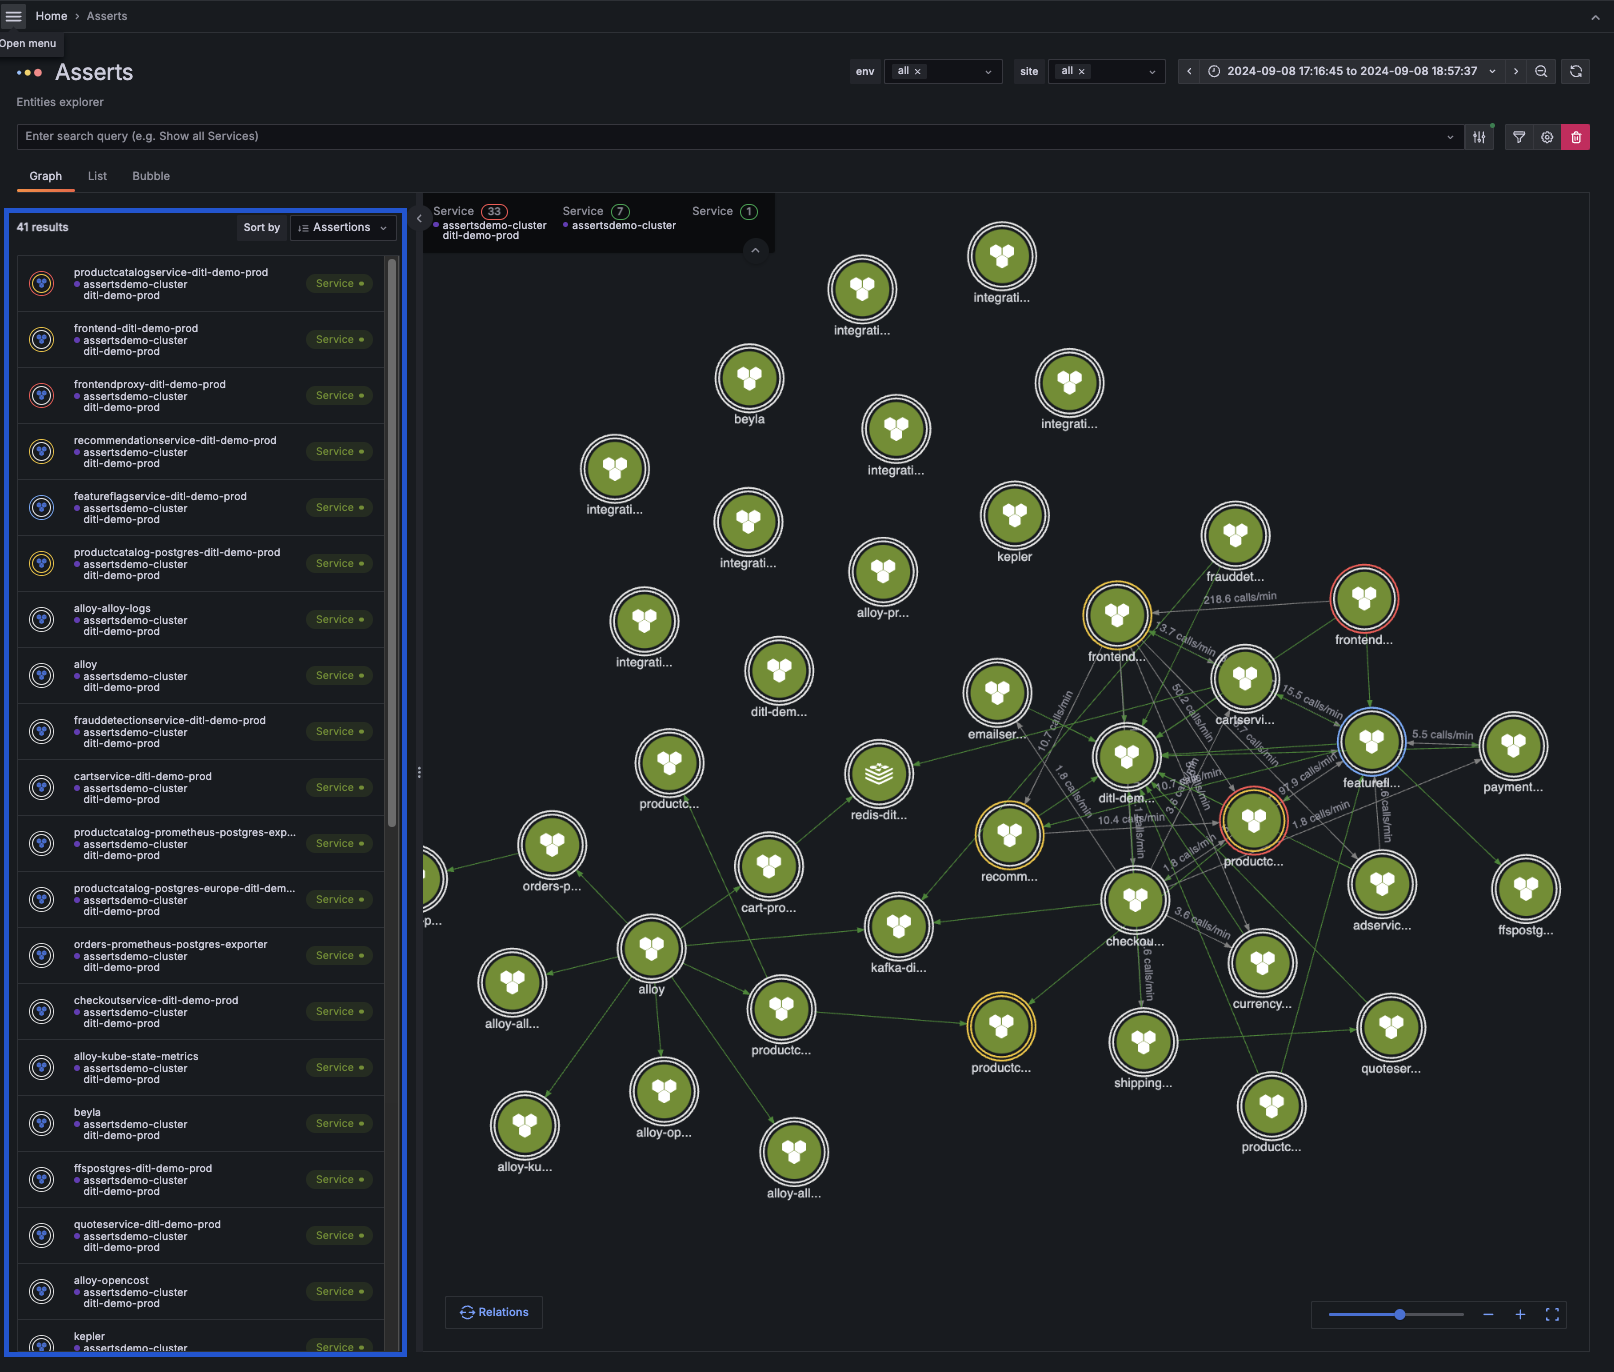
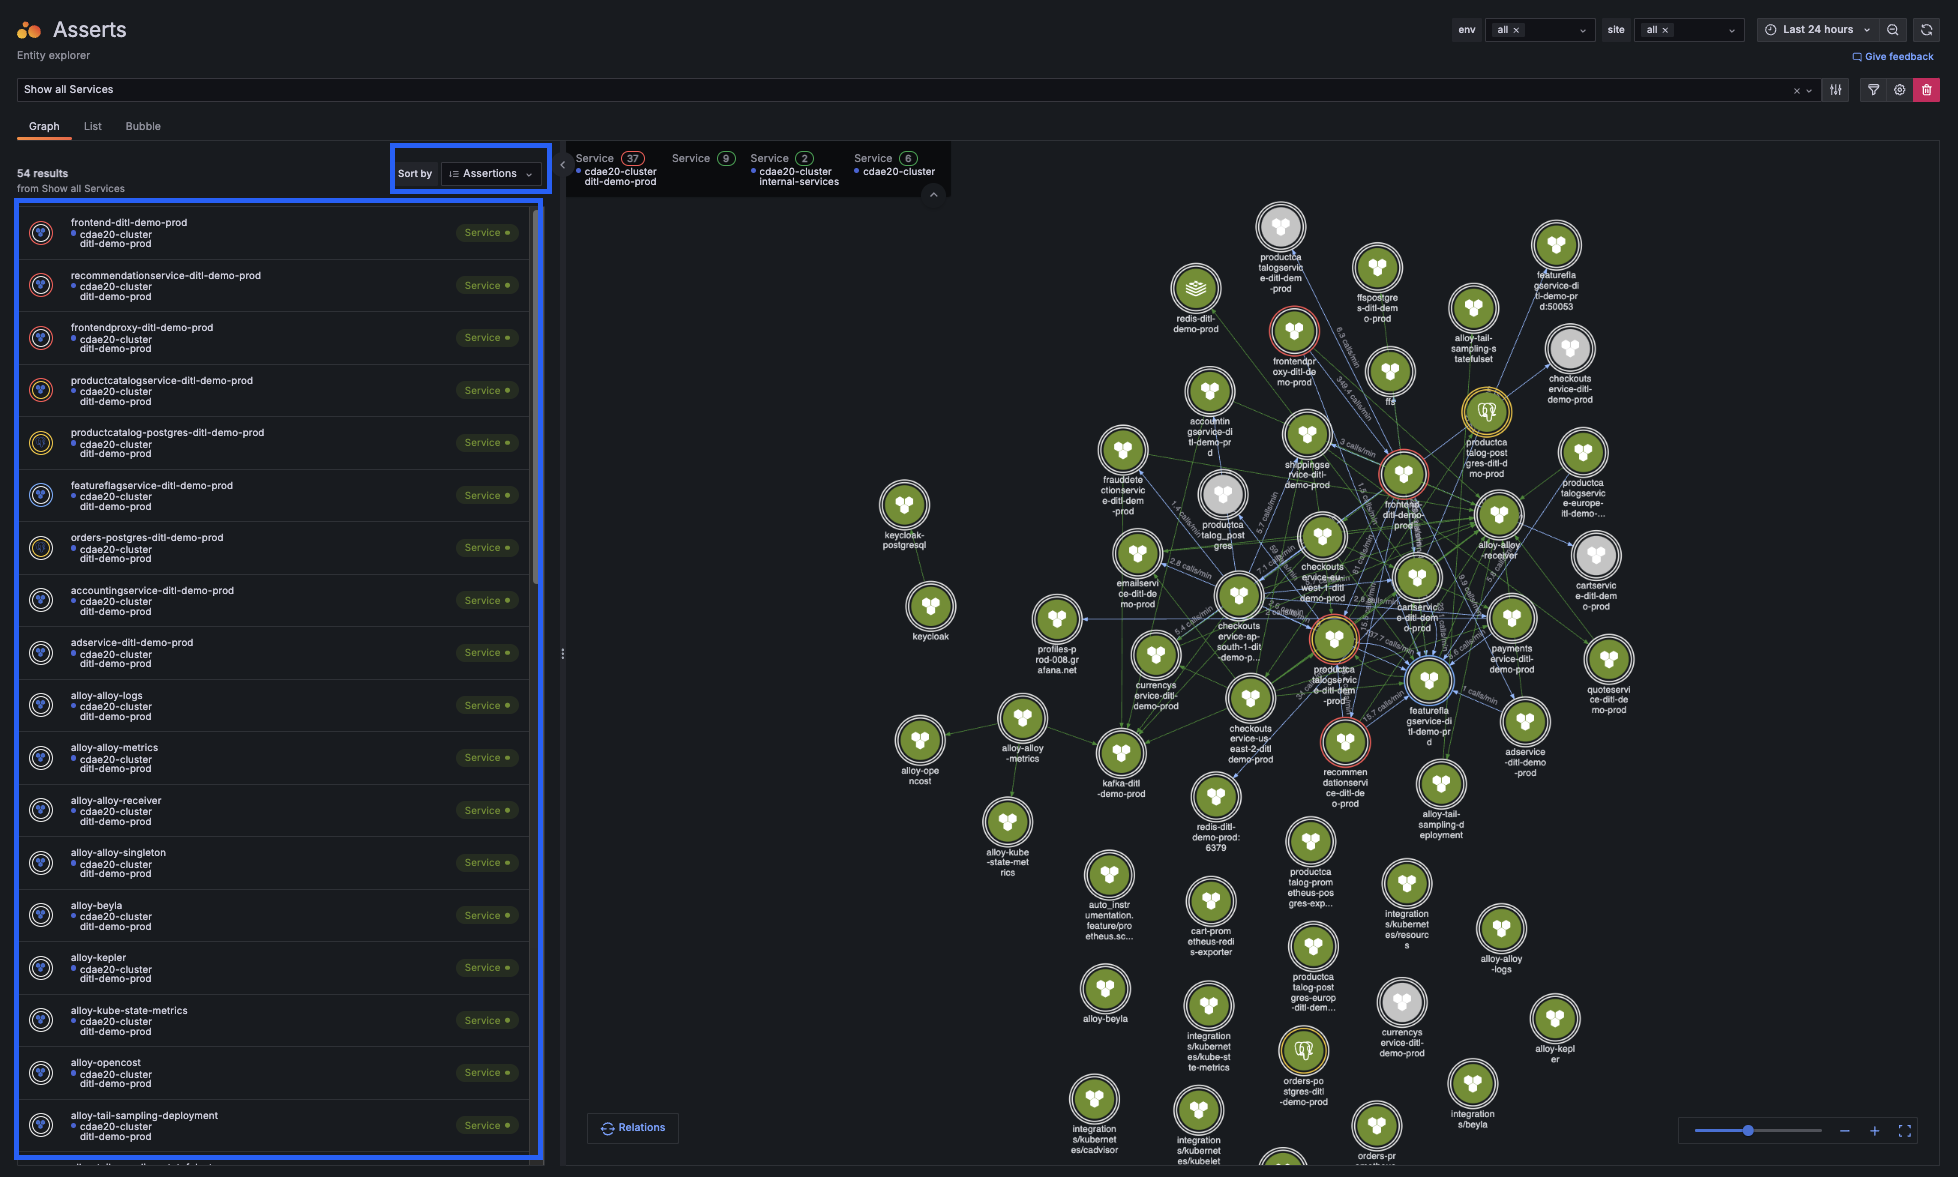
Updated question 1 now that frontend is in the worst state

diff --git a/breakout_2_The-future-of-observability/breakout_2_answers/1.1-asserts.md b/breakout_2_The-future-of-observability/breakout_2_answers/1.1-asserts.md
@@ -1,10 +1,12 @@
 ## Asserts
 Q: Which service looks to be in the worst state? Why?
 
-A: `productcatalogservice-ditl-demo-prod` because it has more Assertions firing than the other services. It has the following:
-- Failure: The associated pod has KubePodCrashLooping
-- Anomaly: The service has x2 LatencyAverageAnomaly  
-- Error: The service has ErrorRatioBreach
+A: `frontendservice-ditl-demo-prod` because it has more Assertions firing than the other services. It has the following:
+- Error:
+    - INBOUND:span_errors::ErrorRatioBreach
+    - INBOUND:span_errors::ErrorBuildup
+    - OUTBOUND:span_errors::ErrorRatioBreach
+    - OUTBOUND:span_errors::ErrorBuildup
 
 To find this:
 1. Open Asserts Entity Explorer and look at the list of services on the left ordered by `Assertions`. This shows the entity in the worst state. 
